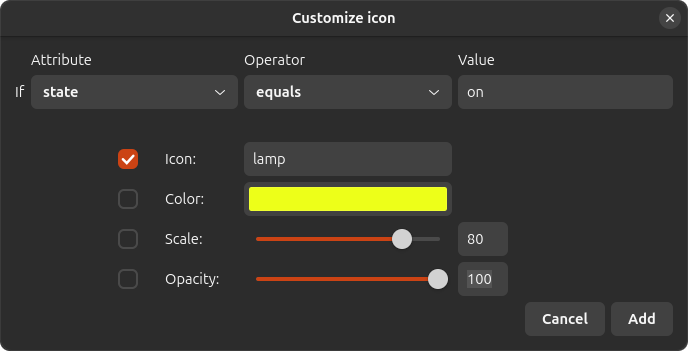
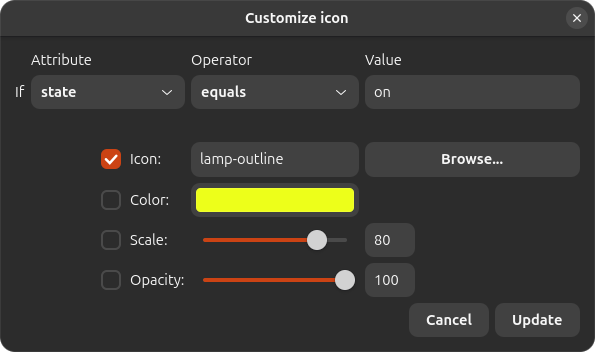
Updated README.md

diff --git a/actions/show_icon/icon_window.py b/actions/show_icon/icon_window.py
@@ -54,7 +54,7 @@ class IconWindow(CustomizationWindow):
         browse_button.set_margin_top(self.default_margin)
         browse_button.set_margin_bottom(self.default_margin)
         browse_button.set_margin_start(self.default_margin)
-        browse_button.set_margin_end(self.default_margin)
+        browse_button.set_margin_end(15)
         self.connect_rows.append(partial(browse_button.connect, base_const.CONNECT_CLICKED, self._on_browse_clicked))
 
         self.color = self._create_color_button(self.check_color)

diff --git a/README.md b/README.md
@@ -58,11 +58,13 @@
   - Disable `key_down` by mapping it to `None`
 
 ### 🎨 Show an Icon
-- Display entity icons or custom icons from [Material Design Icons](https://pictogrammers.com/library/mdi/)
+- Display entity icons or custom icons from [Material Design Icons](https://pictogrammers.com/library/mdi/) as well as images and GIFs
 - Customize icon appearance:
   - 🎨 Color
   - 📏 Scale
   - 🌫️ Opacity
+- Customize image appearance:
+  - 📏 Scale
 - **Dynamic customization** based on state or attribute values
 - Automatic updates when entity state changes
 